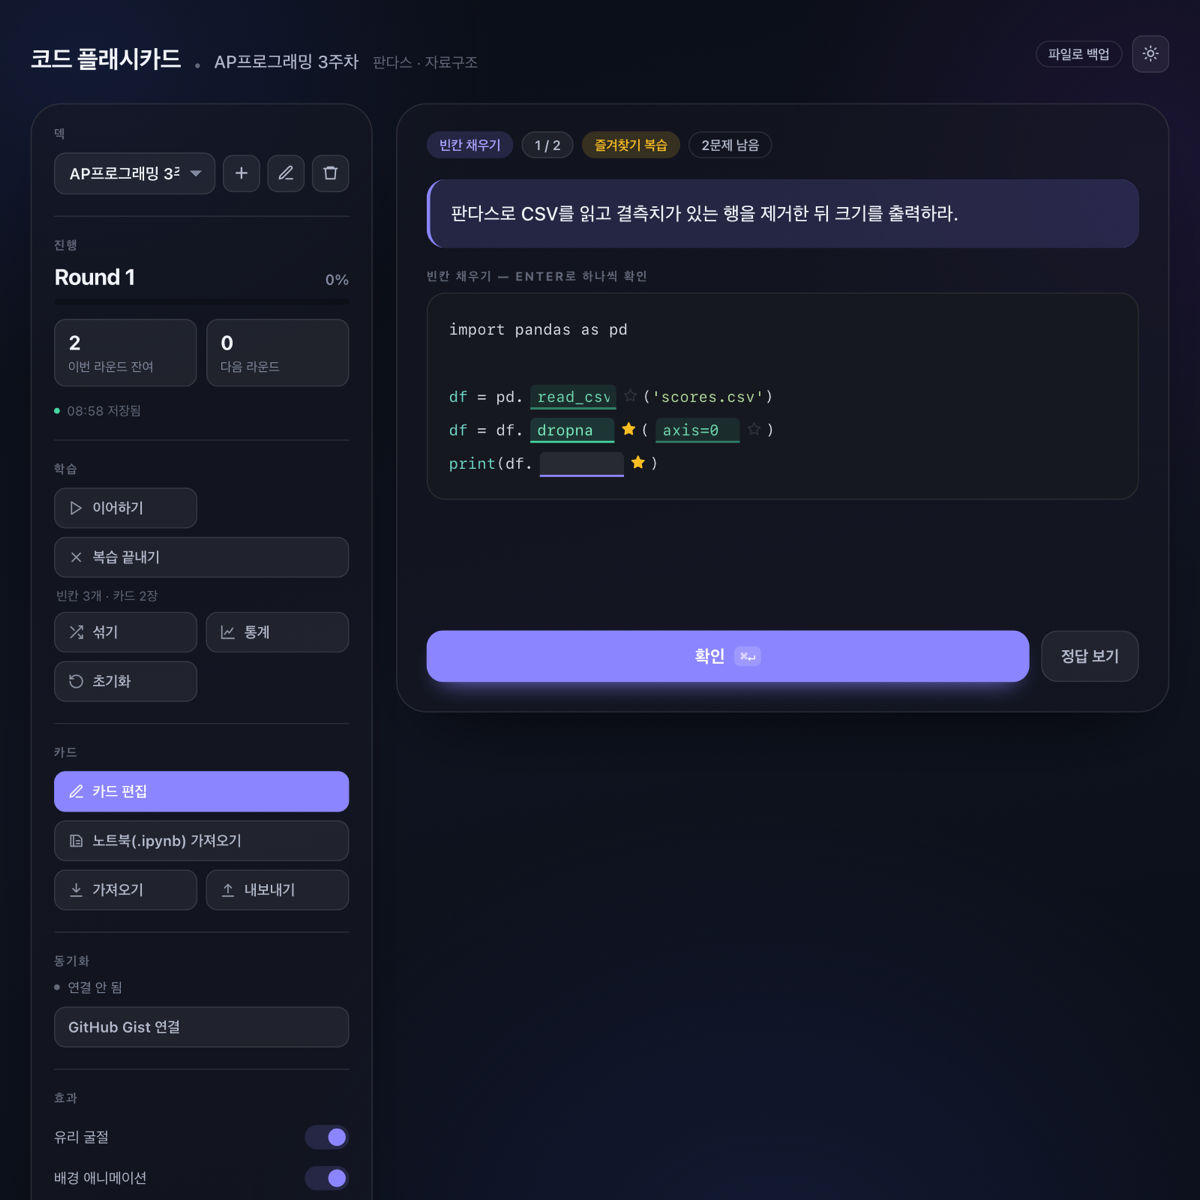
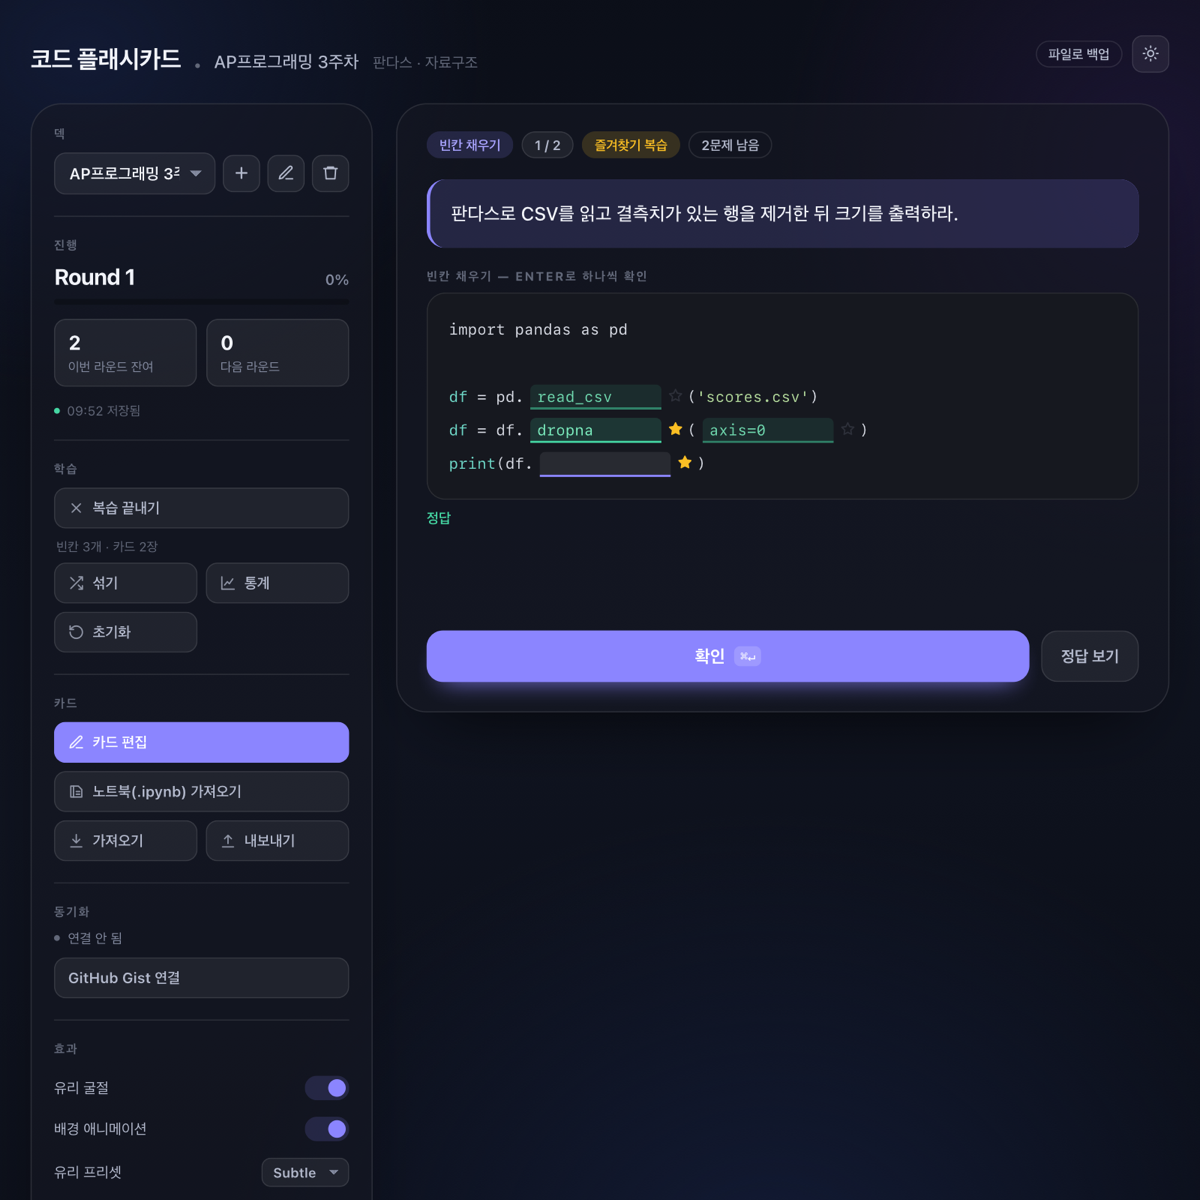
Stop blank width from revealing answer length
Each blank was sized from its answer (answer.length * 9.2px), so a
glance at the box told you how many characters to type. Blanks now all
start at one width and only grow to fit what the user has typed;
already-revealed blanks still size to their visible content. The editor
preview uses the same fixed width and no longer embeds the answer text.

Character width is measured from the rendered font rather than assumed,
and re-measured once webfonts settle, so the fit stays right when the
JetBrains Mono load fails or is delayed.

diff --git a/index.html b/index.html
@@ -402,15 +402,19 @@ textarea.code-surface:focus { border-color: rgba(139, 133, 255, .55); }
 textarea.code-surface::placeholder { color: #5a6070; }
 
 #blank-stage { padding: 16px 18px; white-space: pre; overflow-x: auto; line-height: 2.2; }
+/* 모든 빈칸은 같은 폭에서 시작한다. 정답 길이에 맞춰 폭을 주면
+   글자 수가 그대로 힌트가 되므로, 폭은 오직 사용자가 입력한 내용으로만 늘어난다. */
+:root { --blank-w: 112px; }
 .blank-input {
   display: inline-block; vertical-align: baseline;
-  min-width: 72px; padding: 0 6px; margin: 0 5px;
+  width: var(--blank-w); padding: 0 6px; margin: 0 5px;
+  transition: width .12s ease, background .15s, border-color .15s;
   background: rgba(255,255,255,.08);
   border: none; border-bottom: 2px solid #8b85ff;
   border-radius: 5px 5px 0 0;
   color: #a5f3fc; caret-color: #a5f3fc;
   font-family: inherit; font-size: 13px; line-height: 1.5;
-  outline: none; transition: background .15s, border-color .15s;
+  outline: none;
 }
 .blank-input:focus { background: rgba(139,133,255,.2); border-bottom-color: #b9b5ff; }
 .blank-input.ok { background: rgba(69,214,163,.16); border-bottom-color: #45d6a3; color: #7defc0; pointer-events: none; }
@@ -625,8 +629,9 @@ pre.answer-code {
   font-family: 'JetBrains Mono', monospace; font-size: 12px; line-height: 1.9;
   white-space: pre; overflow-x: auto; color: var(--code-ink); max-height: 170px; overflow-y: auto;
 }
+/* 미리보기도 출제 화면과 같은 고정 폭 — 정답 길이가 드러나지 않는다 */
 .preview-box .blank-slot {
-  display: inline-block; min-width: 46px; padding: 0 6px; margin: 0 3px;
+  display: inline-block; width: var(--blank-w); padding: 0 6px; margin: 0 3px;
   border-bottom: 2px solid rgba(139,133,255,.8); color: transparent;
   background: rgba(139,133,255,.14); border-radius: 4px 4px 0 0;
 }
@@ -2384,14 +2389,15 @@ function renderBlanks(segments, openSet) {
     const idx = bi++;
     const frozen = openSet !== null && !openSet.has(idx);
     const ans = esc(seg.answer);
-    const w = Math.max(72, seg.answer.length * 9.2) + 'px';
     let tag;
     if (frozen) {
+      // 이미 정답이 드러난 칸이므로 내용에 맞춰도 힌트가 되지 않는다
       bs.frozen.add(idx); bs.locked.add(idx);
-      tag = `<input type="text" class="blank-input frozen" data-i="${idx}" data-a="${ans}" value="${ans}" disabled style="width:${w}">`;
+      tag = `<input type="text" class="blank-input frozen" data-i="${idx}" data-a="${ans}" value="${ans}" disabled style="width:${fitWidth(seg.answer)}px">`;
     } else {
+      // 풀어야 하는 칸은 정답 길이와 무관하게 항상 같은 폭에서 시작한다
       bs.open++;
-      tag = `<input type="text" class="blank-input" data-i="${idx}" data-a="${ans}" style="width:${w}" spellcheck="false" autocapitalize="off">`;
+      tag = `<input type="text" class="blank-input" data-i="${idx}" data-a="${ans}" spellcheck="false" autocapitalize="off">`;
     }
     tag += favStarHtml(idx, favSet.has(idx));
     html = html.split(blankToken(i)).join(tag);
@@ -2400,7 +2406,10 @@ function renderBlanks(segments, openSet) {
   host.innerHTML = html;
   host.querySelectorAll('.blank-input').forEach(inp => {
     bs.inputs.push(inp);
-    if (!inp.disabled) inp.addEventListener('keydown', onBlankKey);
+    if (!inp.disabled) {
+      inp.addEventListener('keydown', onBlankKey);
+      inp.addEventListener('input', () => growBlank(inp));
+    }
   });
   host.querySelectorAll('.fav-star').forEach(btn => {
     btn.addEventListener('mousedown', e => e.preventDefault());  // 입력 포커스 유지
@@ -2411,6 +2420,34 @@ function renderBlanks(segments, openSet) {
   if (first) first.focus();
   if (bs.open === 0) finishBlankCard(false);
 }
+
+/* ── 빈칸 폭 ────────────────────────────────────────────
+   정답 길이를 폭으로 노출하지 않기 위해, 열린 빈칸은 항상 --blank-w 에서
+   시작하고 사용자가 입력한 글자 수에 따라서만 늘어난다. */
+let _chW = 0;
+function blankCharWidth() {
+  if (_chW) return _chW;
+  const host = $('blank-stage');
+  if (!host) return 7.9;
+  const probe = document.createElement('span');
+  probe.textContent = '0'.repeat(40);
+  probe.style.cssText = 'position:absolute;visibility:hidden;white-space:pre;font-size:13px;';
+  host.appendChild(probe);
+  _chW = probe.getBoundingClientRect().width / 40;
+  probe.remove();
+  return _chW || 7.9;
+}
+function baseBlankWidth() {
+  const v = parseFloat(getComputedStyle(document.documentElement).getPropertyValue('--blank-w'));
+  return v || 112;
+}
+function fitWidth(text) {
+  return Math.max(baseBlankWidth(), Math.ceil(String(text).length * blankCharWidth()) + 18);
+}
+/** 입력 내용에 맞춰 폭을 조정 (빈 값이면 기본 폭으로 되돌아간다) */
+function growBlank(inp) { inp.style.width = fitWidth(inp.value) + 'px'; }
+// 웹폰트가 늦게 붙으면 글자 폭이 달라지므로 캐시를 한 번 비운다
+if (document.fonts && document.fonts.ready) document.fonts.ready.then(() => { _chW = 0; });
 
 const STAR_PATH = 'M12 3.6l2.5 5.2 5.7.8-4.1 4 1 5.7-5.1-2.7-5.1 2.7 1-5.7-4.1-4 5.7-.8z';
 function favStarHtml(idx, on) {
@@ -2474,6 +2511,7 @@ function onBlankKey(e) {
   } else {
     inp.classList.add('ng');
     inp.value = '';
+    growBlank(inp);
     bs.wrong.add(idx);
     isRetryMode = true;
     $('badge-retry').hidden = false;
@@ -2570,6 +2608,7 @@ function giveUp() {
       const idx = Number(inp.dataset.i);
       if (bs.locked.has(idx)) return;
       inp.value = inp.dataset.a;
+      growBlank(inp);
       inp.disabled = true;
       inp.classList.add('ok');
       bs.locked.add(idx);
@@ -3054,8 +3093,7 @@ function refreshTermView() {
     try { if (window.hljs) ph = hljs.highlightAuto(full).value; } catch (e) {}
     segs.forEach((s, i) => {
       if (!s.isBlank) return;
-      const w = Math.max(46, s.answer.length * 8);
-      ph = ph.split(blankToken(i)).join(`<span class="blank-slot" style="min-width:${w}px">${esc(s.answer)}</span>`);
+      ph = ph.split(blankToken(i)).join('<span class="blank-slot"></span>');
     });
     $('blank-preview').innerHTML = ph;
   } else pv.hidden = true;

diff --git a/README.md b/README.md
@@ -40,6 +40,8 @@
 
 ### 빈칸 만들기
 
+모든 빈칸은 **정답 길이와 무관하게 같은 폭**으로 출제됩니다. 칸 크기가 글자 수를 알려주면 힌트가 되기 때문입니다. 폭은 입력한 내용이 길어질 때만 늘어납니다.
+
 정답 코드 입력창에서 가리고 싶은 부분을 **드래그**한 뒤 `⌘B`(Windows는 `Ctrl+B`)를 누르거나, 선택 영역 위에 뜨는 **빈칸으로 지정** 버튼을 클릭하세요. 지정한 빈칸은 아래에 칩으로 표시되며 `×`로 개별 해제할 수 있습니다. 빈칸을 만든 뒤 코드를 수정해도 빈칸 위치는 따라 이동합니다.
 
 ## 데이터 저장과 동기화
